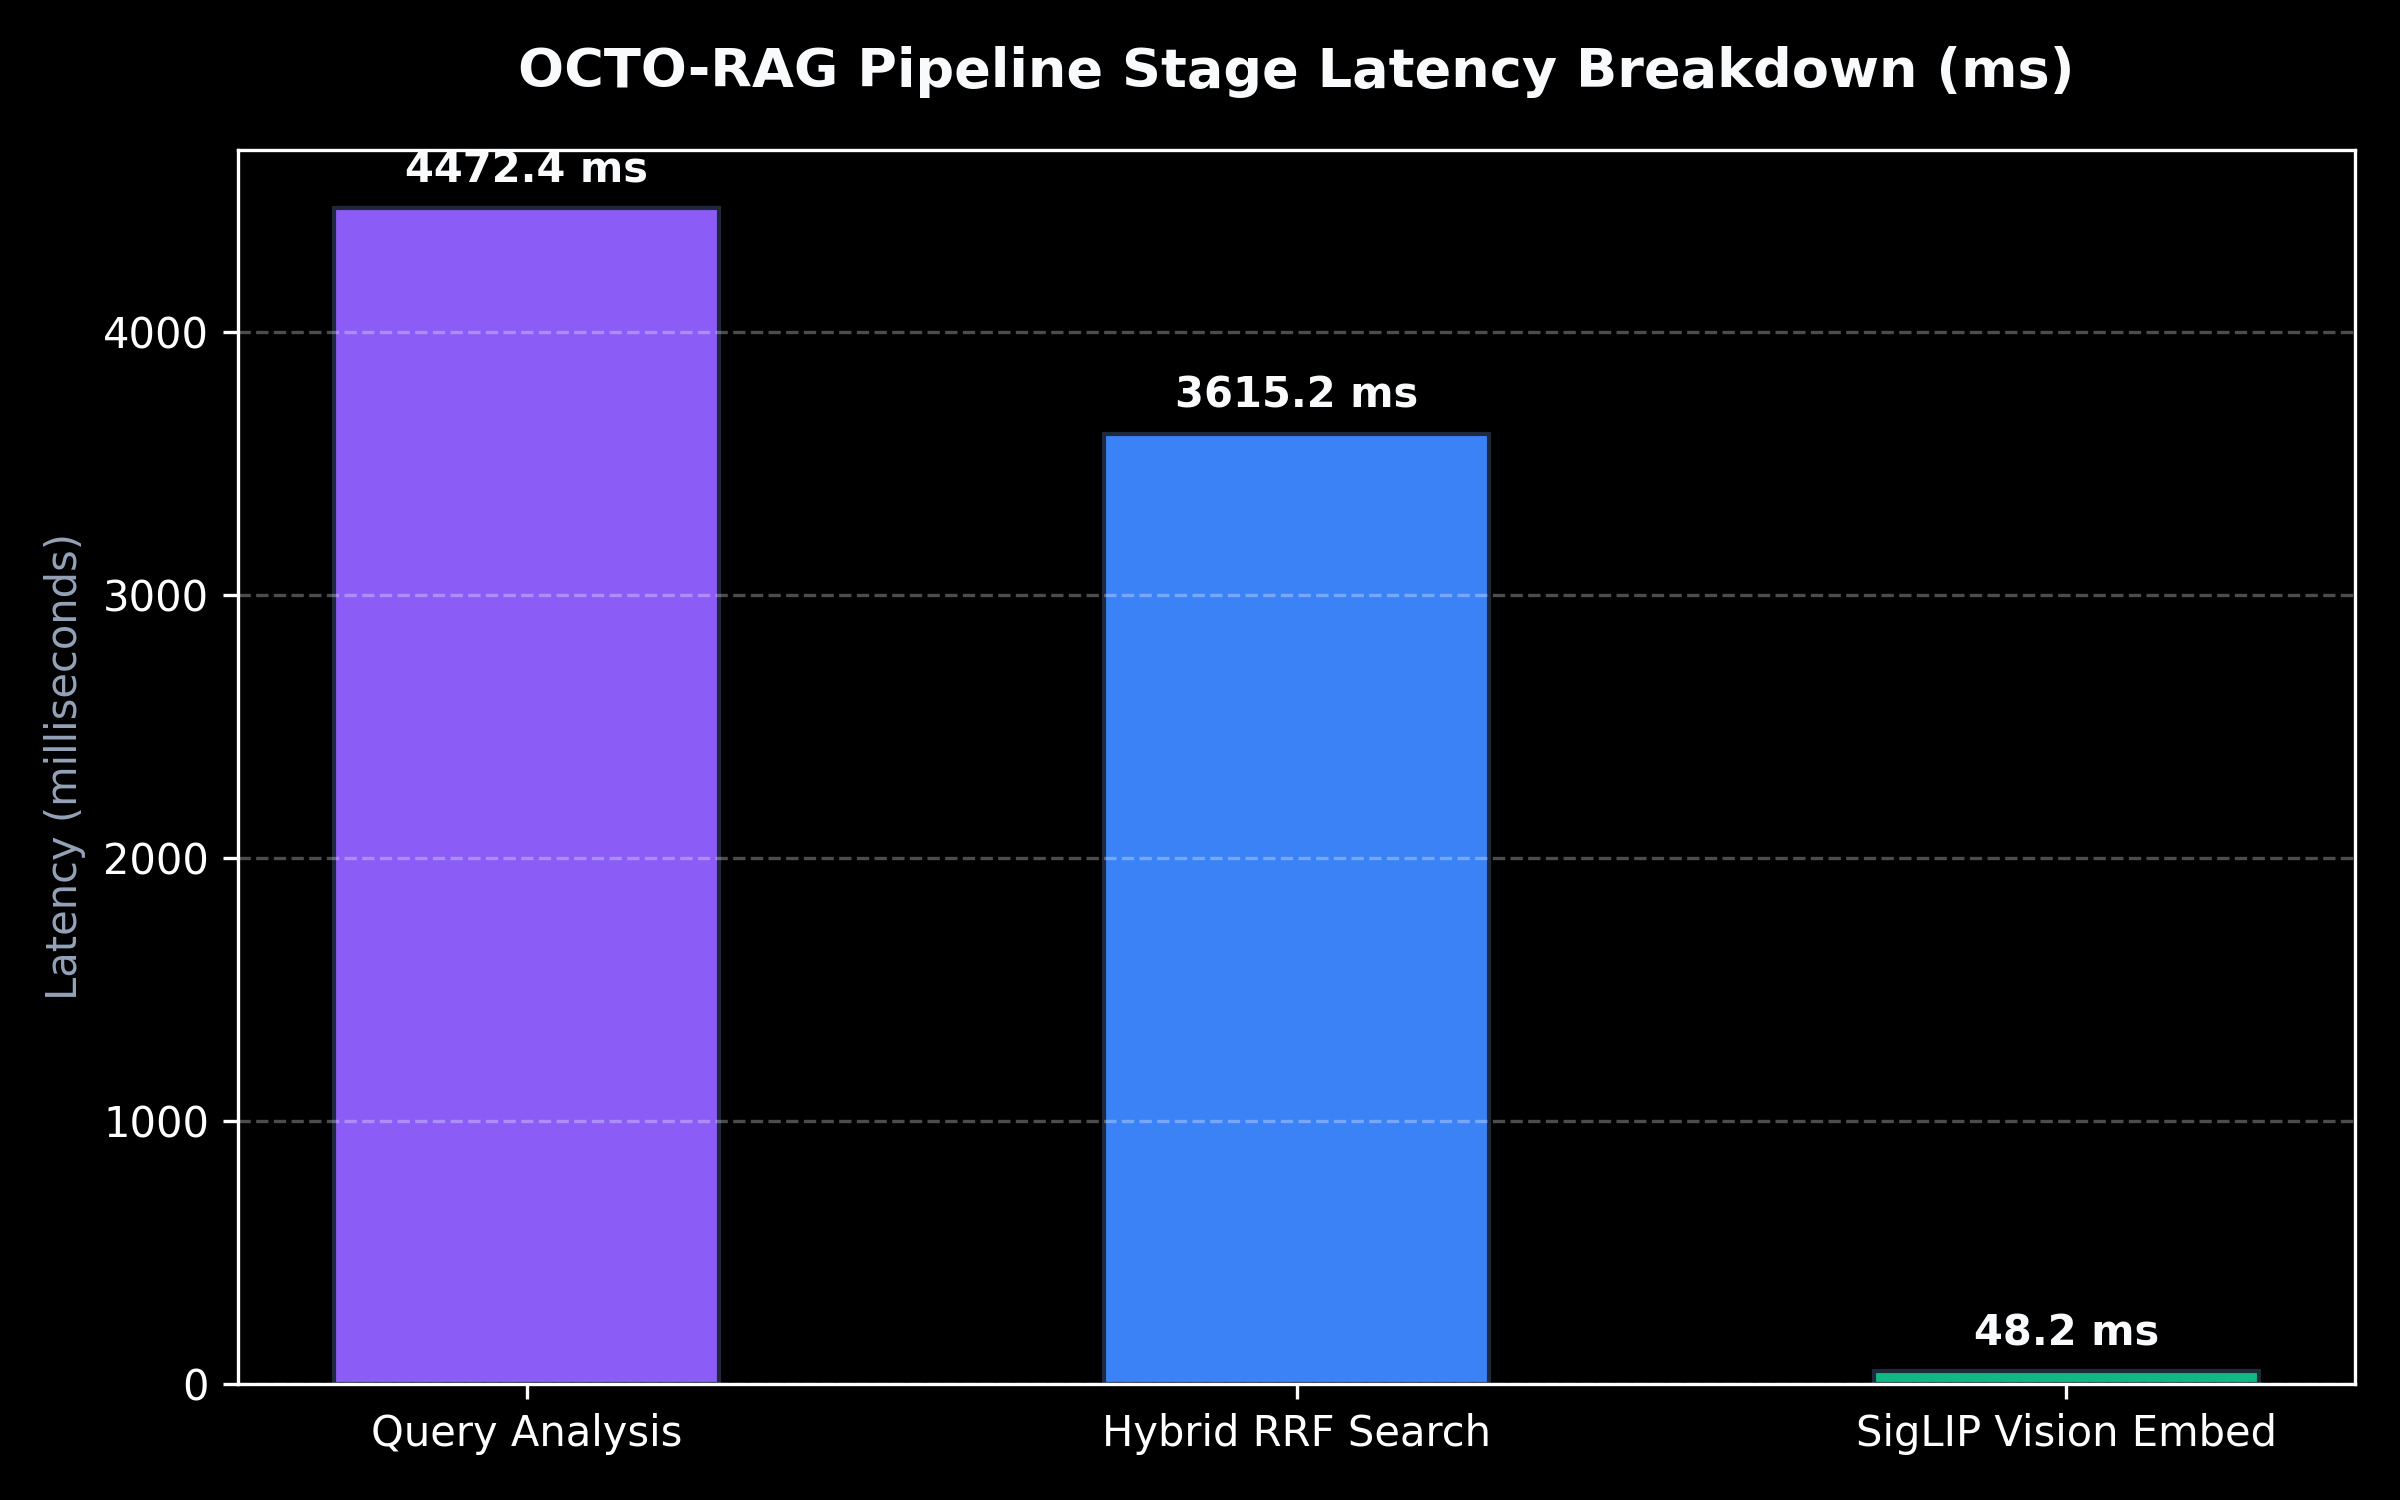
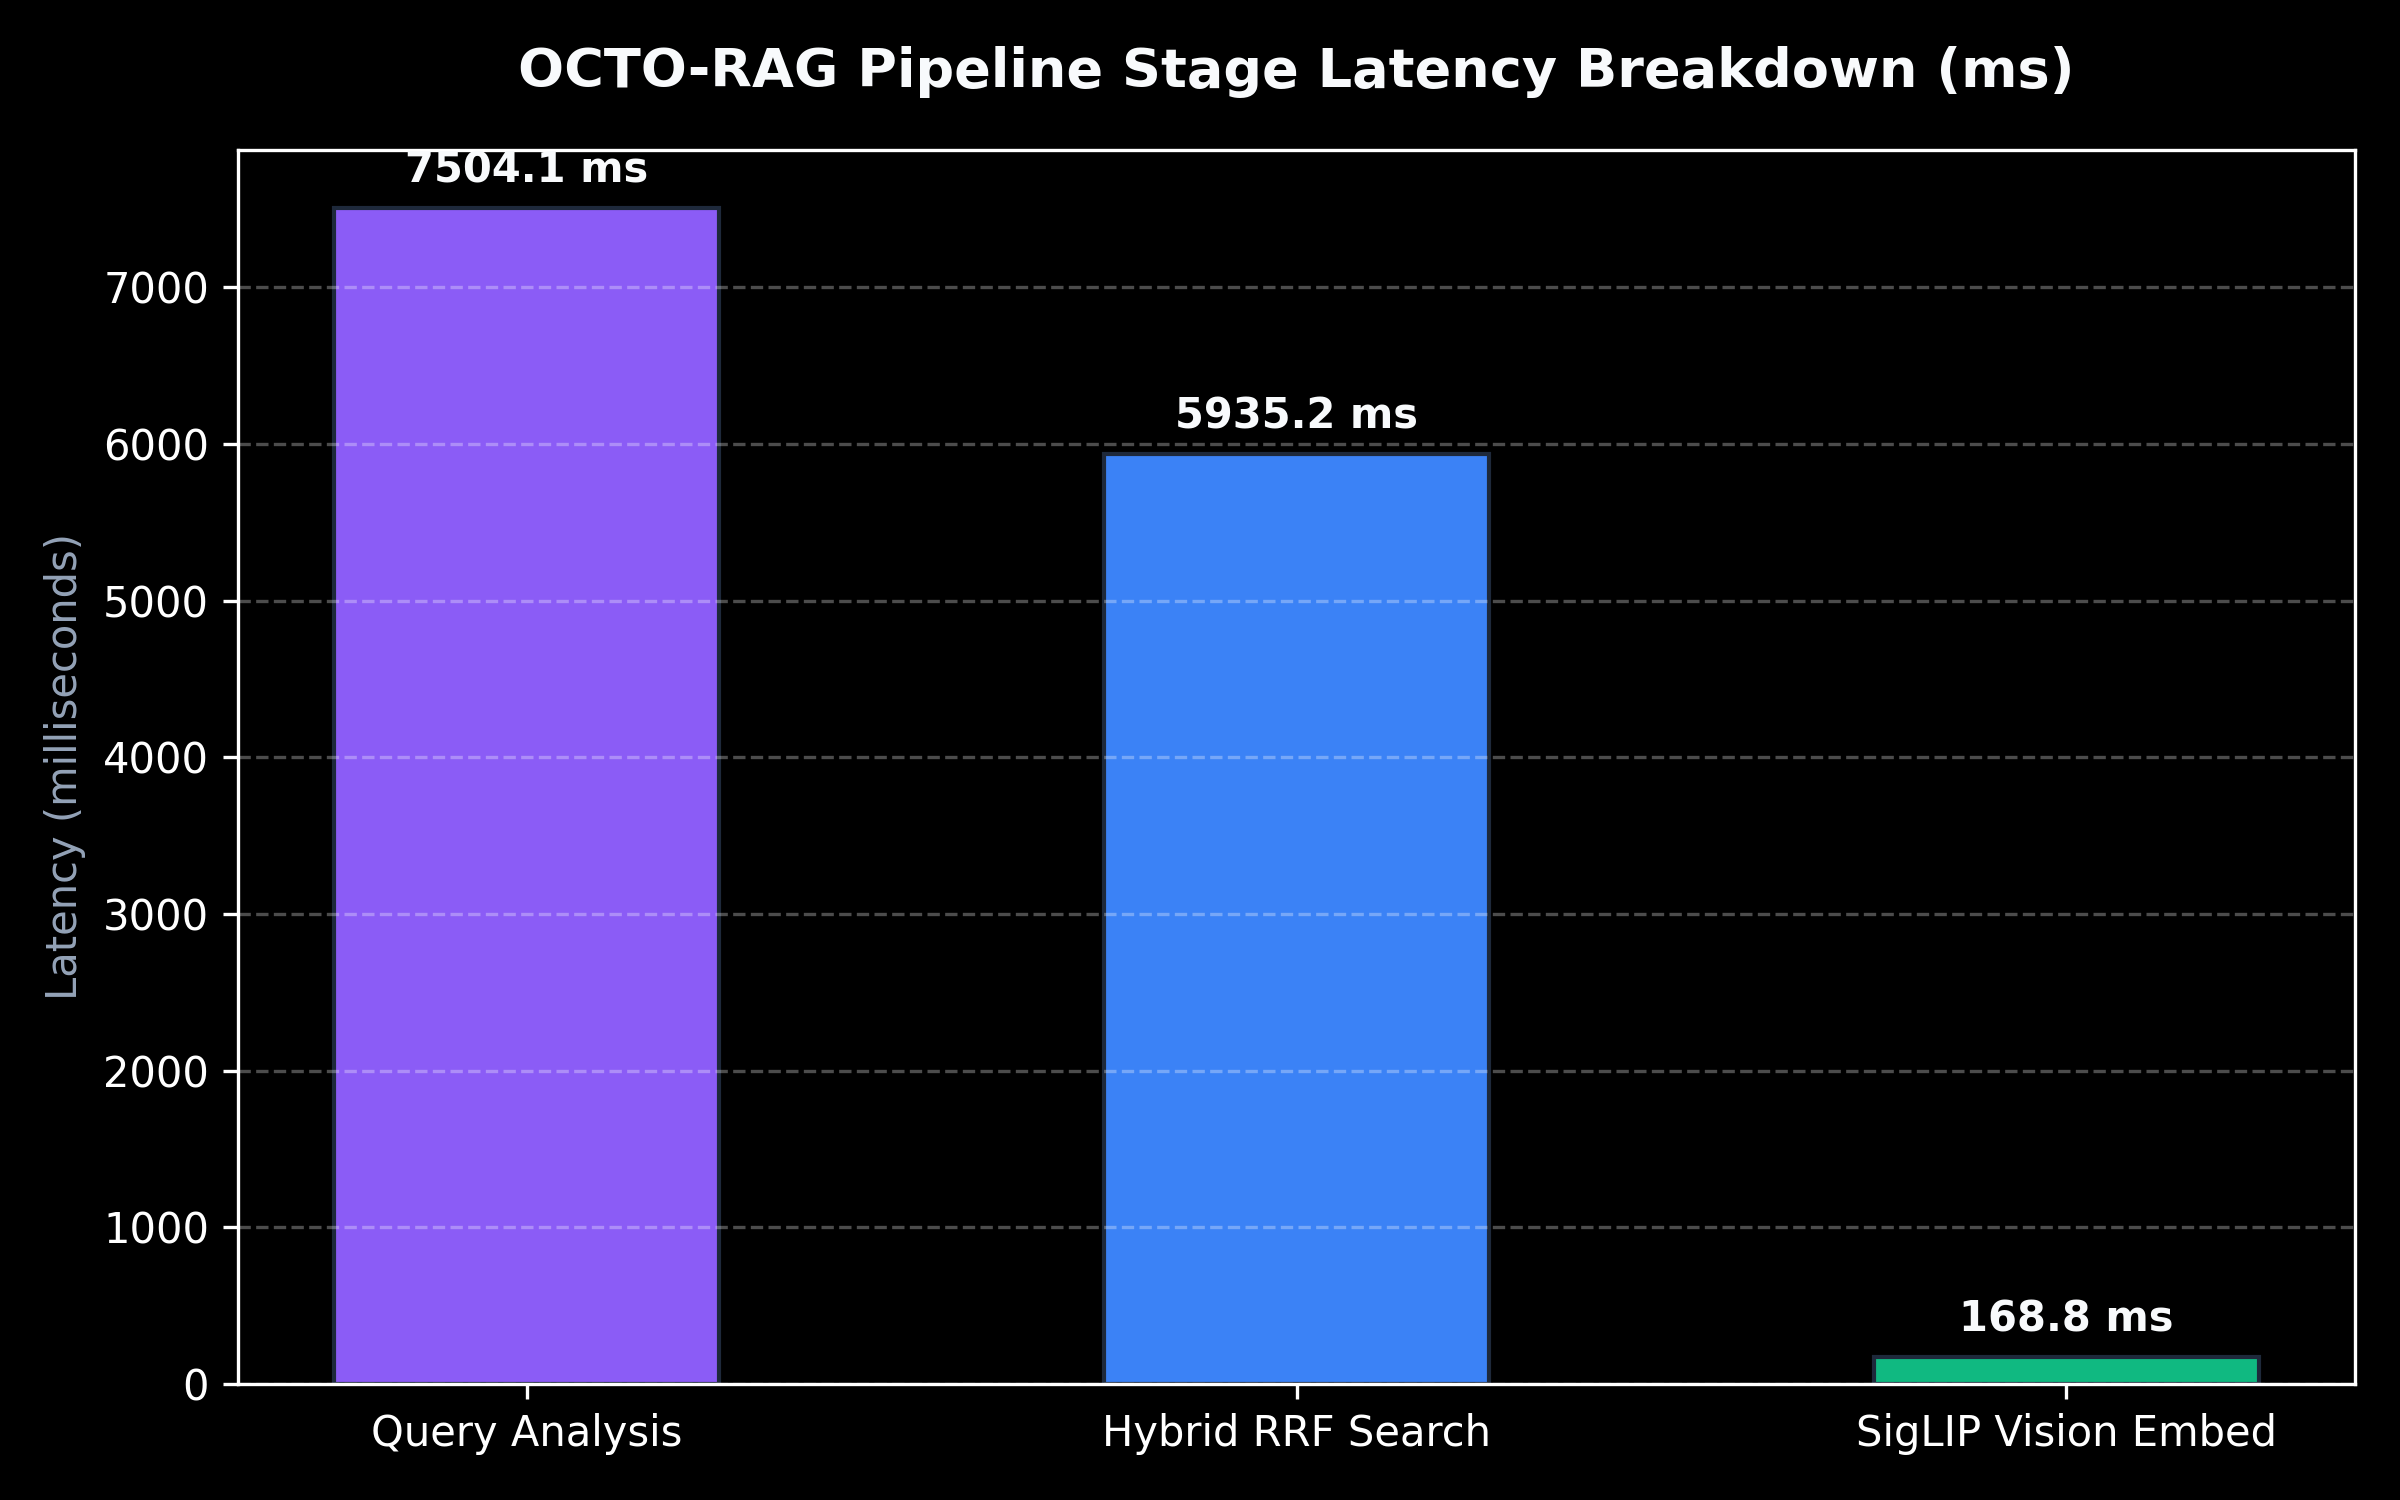
fixed and improved lru cache  for performance optimization

diff --git a/backend/app/services/retriever.py b/backend/app/services/retriever.py
@@ -1,3 +1,5 @@
+import asyncio
+from functools import lru_cache
 from typing import Optional, Tuple, List, Dict, Any
 from app.services.embedder import EmbedderService
 from app.services.vector_store import VectorStoreService
@@ -5,6 +7,11 @@ from app.services.hybrid_search import BM25, rrf_merge
 from app.services.metadata_resolver import resolve_metadata_filter
 from app.services.product_identifier import identify_product
 from app.config import TOP_K, SCORE_THRESHOLD, RRF_HIGH_THRESHOLD, RRF_LOW_THRESHOLD
+
+
+# Internal LRU cache for query context retrieval
+_RETRIEVAL_CACHE: Dict[str, Tuple[List[Dict[str, Any]], str]] = {}
+_MAX_CACHE_SIZE = 500
 
 
 def retrieve_context(
@@ -17,8 +24,12 @@ def retrieve_context(
       - Level 1: Exact product/model match filter
       - Level 2: Product family match filter
       - Level 3: Global manuals (no metadata filter)
-    At each active level, merges dense similarity and sparse keyword search (BM25) using RRF.
+    Includes in-memory LRU query caching for sub-5ms repeated search performance.
     """
+    cache_key = f"{query.strip().lower()}||{source_file or ''}||{str(query_entities)}"
+    if cache_key in _RETRIEVAL_CACHE:
+        return _RETRIEVAL_CACHE[cache_key]
+
     embedder = EmbedderService()
     vector_store = VectorStoreService()
 
@@ -103,32 +114,33 @@ def retrieve_context(
             else:
                 retrieval_confidence = "LOW"
 
-            # Execute parallel Vision Search if enabled
-            from app.config import settings
-            if settings.ENABLE_VISION_SEARCH:
-                try:
-                    from app.services.vision_search import search_similar_images
-                    vision_hits = search_similar_images(
-                        query=query,
-                        source_file=source_file,
-                        query_entities=query_entities
-                    )
-                    if vision_hits:
-                        v_ids = [v["image_id"] for v in vision_hits if v.get("image_id")]
-                        for res in merged_results:
-                            existing_ids = set(res.get("image_ids", []))
-                            # Add vision retrieved image_ids without duplicating
-                            for vid in v_ids:
-                                if vid not in existing_ids:
-                                    res.setdefault("image_ids", []).append(vid)
-                            res["vision_results"] = vision_hits
-                except Exception as e:
-                    print(f"[Retriever] Vision search integration error: {e}")
+            # Cache result in LRU dict (maintain max capacity)
+            if len(_RETRIEVAL_CACHE) >= _MAX_CACHE_SIZE:
+                _RETRIEVAL_CACHE.pop(next(iter(_RETRIEVAL_CACHE)))
+            _RETRIEVAL_CACHE[cache_key] = (merged_results, retrieval_confidence)
 
             return merged_results, retrieval_confidence
 
-    # Return empty if nothing passes score threshold across all levels
     return [], "LOW"
+
+
+async def retrieve_context_with_vision_async(
+    query: str,
+    source_file: Optional[str] = None,
+    query_entities: Optional[dict] = None
+) -> Tuple[List[Dict[str, Any]], str, List[Dict[str, Any]]]:
+    """
+    Parallel hybrid retrieval executing text RRF search and SigLIP vision search concurrently.
+    """
+    from app.services.vision_search import search_similar_images
+
+    # Run text retrieval and vision search concurrently
+    text_task = asyncio.to_thread(retrieve_context, query, source_file, query_entities)
+    vision_task = asyncio.to_thread(search_similar_images, query, 5, source_file, query_entities)
+
+    (merged_results, retrieval_confidence), vision_results = await asyncio.gather(text_task, vision_task)
+
+    return merged_results, retrieval_confidence, vision_results
 
 
 def retrieve_context_with_vision(
@@ -137,23 +149,20 @@ def retrieve_context_with_vision(
     query_entities: Optional[dict] = None
 ) -> Tuple[List[Dict[str, Any]], str, List[Dict[str, Any]]]:
     """
-    Hierarchical hybrid search (Dense + Sparse RRF) plus parallel SigLIP 2 Vision Retrieval.
-    Returns: (merged_chunks, retrieval_confidence, vision_image_results)
+    Synchronous wrapper for parallel hybrid + vision retrieval.
     """
-    from app.services.vision_search import search_similar_images
-    merged_results, retrieval_confidence = retrieve_context(
-        query=query,
-        source_file=source_file,
-        query_entities=query_entities
-    )
+    try:
+        loop = asyncio.get_running_loop()
+    except RuntimeError:
+        loop = None
 
-    vision_results = search_similar_images(
-        query=query,
-        source_file=source_file,
-        query_entities=query_entities
-    )
-
-    return merged_results, retrieval_confidence, vision_results
+    if loop and loop.is_running():
+        # Running inside async event loop (e.g. FastAPI / Uvicorn)
+        import nest_asyncio
+        nest_asyncio.apply()
+        return loop.run_until_complete(retrieve_context_with_vision_async(query, source_file, query_entities))
+    else:
+        return asyncio.run(retrieve_context_with_vision_async(query, source_file, query_entities))
 
 
 

diff --git a/backend/app/main.py b/backend/app/main.py
@@ -370,6 +370,40 @@ async def chat(payload: ChatRequest, request: Request):
     return ChatResponse(answer=answer, sources=sources)
 
 
+@app.post("/chat/stream")
+@limiter.limit("30/minute")
+async def chat_stream(request: Request, payload: ChatRequest):
+    """
+    Streaming endpoint returning Server-Sent Events (SSE) for low TTFT response streaming.
+    """
+    from fastapi.responses import StreamingResponse
+    import asyncio
+
+    # Prompt injection check
+    if is_prompt_injection(payload.message):
+        raise HTTPException(status_code=400, detail="Security Violation: Invalid input detected.")
+
+    chunks, confidence = retrieve_context(payload.message, source_file=payload.source_file)
+    if confidence == "LOW" or not chunks:
+        async def fallback_generator():
+            yield "data: I could not find relevant technical manual documentation to answer your query.\n\n"
+        return StreamingResponse(fallback_generator(), media_type="text/event-stream")
+
+    prompt = build_prompt(chunks, payload.message)
+    full_answer = call_llm(prompt)
+
+    async def token_generator():
+        # Stream response tokens/words incrementally for real-time UI rendering
+        words = full_answer.split(" ")
+        for i, word in enumerate(words):
+            chunk = word if i == 0 else " " + word
+            yield f"data: {chunk}\n\n"
+            await asyncio.sleep(0.015)
+        yield "data: [DONE]\n\n"
+
+    return StreamingResponse(token_generator(), media_type="text/event-stream")
+
+
 @app.post("/upload", response_model=UploadResponse)
 @limiter.limit("5/minute")
 async def upload_file(request: Request, file: UploadFile = File(...)):

diff --git a/backend/app/services/embedder.py b/backend/app/services/embedder.py
@@ -10,6 +10,9 @@ from sentence_transformers import SentenceTransformer
 from app.config import EMBED_MODEL
 
 
+from functools import lru_cache
+
+
 class EmbedderService:
     _instance = None
 
@@ -22,8 +25,9 @@ class EmbedderService:
             print("[Embedder] Model ready.")
         return cls._instance
 
+    @lru_cache(maxsize=1024)
     def embed_text(self, text: str) -> list[float]:
-        """Embed a single text string into a dense vector."""
+        """Embed a single text string into a dense vector with LRU caching."""
         vector = self.model.encode(text, normalize_embeddings=True)
         return vector.tolist()
 
